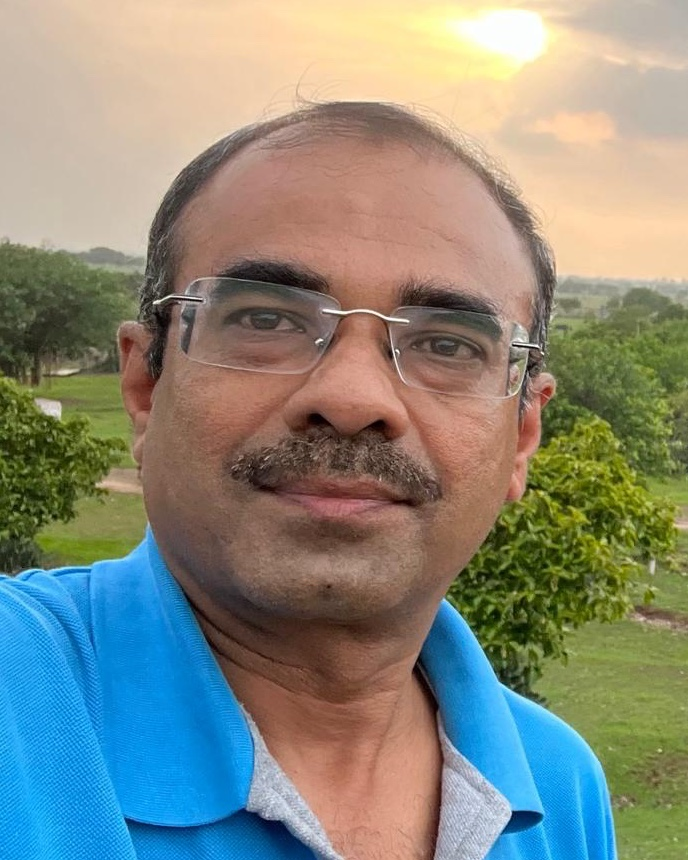
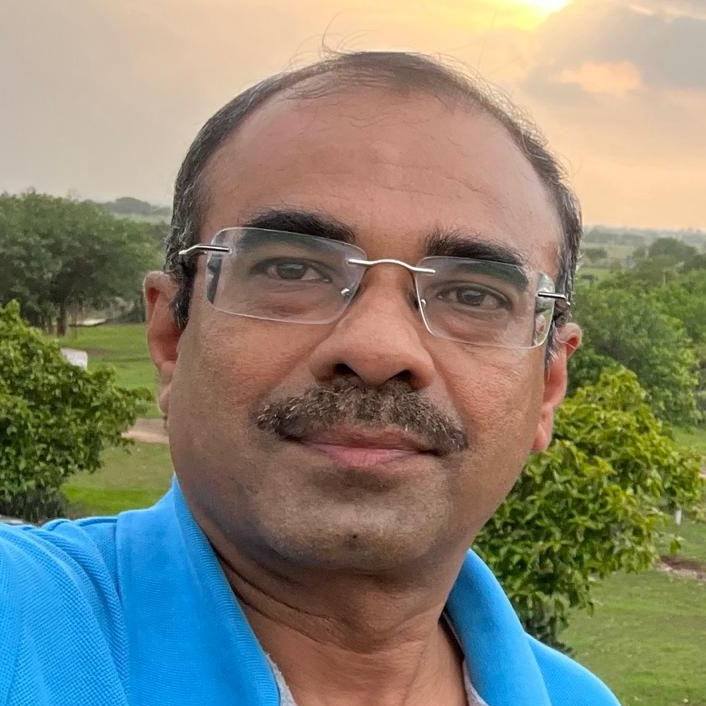
Design review round 1: smaller square portrait (beside the heading on his page, inside the card on home); his page without repeated sections (4 facts in a 2×2 block, operations covered by the treatment cards); gallery 2×2; tighter crops (OT without loose wires and lamp glare, building on the signboa

diff --git a/src/content/ui.ts b/src/content/ui.ts
@@ -40,14 +40,12 @@ export const UI = t(
     more: "વધુ વાંચો",
     galTitle: "ક્લિનિક",
     galSub: "કન્સલ્ટેશન, તપાસ અને ઓપરેશન — એક જ જગ્યાએ.",
-    phConsult: "કન્સલ્ટેશન રૂમ",
     phOT: "ઓપરેશન થિયેટર",
     phWait: "વેઇટિંગ એરિયા",
     phTests: "આંખની તપાસ: ઑટો‑રિફ્રેક્ટોમીટર અને સ્લિટ લેમ્પ",
     altTests: "સુભમ્ આઈ ક્લિનિકના કન્સલ્ટેશન રૂમમાં ઑટો‑રિફ્રેક્ટોમીટર અને સ્લિટ લેમ્પ",
     altBldg: "સુભમ્ આઈ ક્લિનિકનું મકાન, પ્રવેશદ્વાર અને બોર્ડ",
     phBldg: "ક્લિનિક, જય કેબલ સામે",
-    altConsult: "સુભમ્ આઈ ક્લિનિકનો કન્સલ્ટેશન રૂમ — સ્લિટ લેમ્પ અને તપાસની ખુરશી",
     altOT: "સુભમ્ આઈ ક્લિનિકના ઓપરેશન થિયેટરમાં ઓપરેટિંગ માઇક્રોસ્કોપ",
     phKerato: "કેરાટોમીટર: કૉન્ટેક્ટ લેન્સ માટે કોર્નિયાનો વળાંક માપે છે",
     altKerato: "સુભમ્ આઈ ક્લિનિકમાં કેરાટોમીટર",
@@ -104,17 +102,8 @@ export const UI = t(
     // Doctor page (/gu/dr-rajeev-shah/). Facts as on the home page; awaiting Dr. Shah's approval like all page text.
     docPageTitle: "ડૉ. રાજીવ શાહ, આંખના નિષ્ણાત અને સર્જન, જામનગર",
     docPageDesc: "ડૉ. રાજીવ શાહ, MBBS, DOMS: ૩૦ વર્ષથી વધુ સમયથી જામનગરમાં આંખના સર્જન. સુભમ્ આઈ ક્લિનિકમાં મોતિયો, ઝામર, ટેરીજીયમ અને આંખની ઇજાનાં ઓપરેશન. ફોન 0288 256 3274.",
-    langK: "ભાષા",
-    langV: "ગુજરાતી, હિન્દી, અંગ્રેજી",
-    expK: "અનુભવ",
     memK: "સભ્યપદ",
     memV: "APACRS (Asia‑Pacific Association of Cataract and Refractive Surgeons)",
-    expV: "૩૦ વર્ષથી વધુ; ૨૦૦૨થી સુભમ્ આઈ ક્લિનિકમાં",
-    opsTitle: "ક્લિનિકમાં થતાં ઓપરેશન",
-    ops1: "મોતિયાનું ફેકો ઓપરેશન, સામાન્ય રીતે ટાંકા વગર — મોનોફોકલ, ટોરિક કે મલ્ટિફોકલ/EDOF લેન્સ સાથે",
-    ops2: "ઝામર (ગ્લુકોમા)નું ઓપરેશન",
-    ops3: "ટેરીજીયમ અને પોપચાની ગાંઠ (કેલેઝિયન)નું ઓપરેશન",
-    ops4: "આંખની ઇજાની સારવાર, કોર્નિયાની ઇજાના રિપેર સહિત",
     opsNote: "બધાં ઓપરેશન ક્લિનિકના પોતાના ઓપરેશન થિયેટરમાં થાય છે.",
     docMore: "ડૉ. શાહ વિશે વધુ",
   },
@@ -153,14 +142,12 @@ export const UI = t(
     more: "Read more",
     galTitle: "The clinic",
     galSub: "Consultation, tests and surgery under one roof.",
-    phConsult: "Consultation room",
     phOT: "Operation theatre",
     phWait: "Waiting area",
     phTests: "Eye tests: auto‑refractometer and slit lamp",
     altTests: "Auto‑refractometer and slit lamp in the consultation room at Subham Eye Clinic",
     altBldg: "Subham Eye Clinic building, entrance gate and signboards",
     phBldg: "The clinic, opposite Jay Cable",
-    altConsult: "Consultation room at Subham Eye Clinic with the slit lamp and examination chair",
     altOT: "Operating microscope in the operation theatre at Subham Eye Clinic",
     phKerato: "Keratometer: measures the curve of the cornea for contact lenses",
     altKerato: "Keratometer at Subham Eye Clinic",
@@ -216,17 +203,8 @@ export const UI = t(
     tomorrow: "tomorrow",
     docPageTitle: "Dr. Rajeev Shah, Ophthalmologist and Eye Surgeon, Jamnagar",
     docPageDesc: "Dr. Rajeev Shah, MBBS, DOMS: eye surgeon in Jamnagar for over 30 years. Cataract, glaucoma, pterygium and eye-injury surgery at Subham Eye Clinic. Call 0288 256 3274.",
-    langK: "Languages",
-    langV: "Gujarati, Hindi, English",
-    expK: "Experience",
     memK: "Membership",
     memV: "APACRS (Asia‑Pacific Association of Cataract and Refractive Surgeons)",
-    expV: "Over 30 years; at Subham Eye Clinic since 2002",
-    opsTitle: "Operations at the clinic",
-    ops1: "Phaco cataract surgery, usually without stitches, with a monofocal, toric or multifocal/EDOF lens",
-    ops2: "Glaucoma surgery",
-    ops3: "Pterygium and chalazion operations",
-    ops4: "Treatment of eye injuries, including repair of corneal injuries",
     opsNote: "All operations are done in the clinic’s own operation theatre.",
     docMore: "More about Dr. Shah",
   },

diff --git a/src/styles/components.css b/src/styles/components.css
@@ -125,7 +125,7 @@ html[lang="en"] .lang a[lang="gu"]{font-family:"Anek Switch","Noto Sans Gujarati
 
 /* ---------- treatment cards ---------- */
 .tcard{display:grid;grid-template-columns:40px 1fr;gap:16px;align-items:start;align-content:start}
-.tcard h3::after,.others span::after{content:"\00a0→";display:inline-block;color:var(--green-2);transition:transform .2s}
+.tcard h3::after,.others span::after{content:"\00a0→";display:inline;color:var(--green-2);transition:transform .2s}
 .tcard p{font-size:16px;color:var(--mute);margin-top:4px}
 
 /* ---------- photos ---------- */
@@ -142,9 +142,12 @@ html[lang="en"] .lang a[lang="gu"]{font-family:"Anek Switch","Noto Sans Gujarati
 .facil span{display:block;font-size:16px;color:var(--mute);margin-top:2px}
 
 /* ---------- doctor ---------- */
-.portrait img{aspect-ratio:4/5}
-.doc{display:grid;gap:var(--gap)}
-.doc-card > p{font-size:20px;line-height:1.6;color:var(--ink);max-width:52em}
+/* his own outdoor photo: square, a little calmer in colour so the blue shirt doesn't shout against the cream */
+.portrait img{aspect-ratio:1;filter:saturate(.9)}
+.doc-card.has-photo{display:grid;gap:22px}
+.doc-card .portrait{width:160px}
+.doc-page .hero-t .portrait{width:160px;order:-1}
+.doc-body > p{font-size:20px;line-height:1.6;color:var(--ink);max-width:52em}
 .doc-more{margin-top:22px}
 .doc-more a{font-weight:600;color:var(--green);padding:10px 0}
 .doc-more a::after{content:"\00a0→";color:var(--green-2)}
@@ -152,7 +155,7 @@ html[lang="en"] .lang a[lang="gu"]{font-family:"Anek Switch","Noto Sans Gujarati
 .doc-facts{align-self:center}
 .doc-facts .facts{margin-top:0;border-top:0}
 .doc-facts .facts div:first-child{padding-top:0}
-html[data-lang="gu"] .doc-card > p{line-height:1.75}
+html[data-lang="gu"] .doc-body > p{line-height:1.75}
 .facts{display:grid;gap:0;margin-top:20px;border-top:1px solid var(--line)}
 .facts div{padding:14px 0;border-bottom:1px solid var(--line)}
 .facts div:last-child{border-bottom:0;padding-bottom:0}
@@ -269,7 +272,8 @@ html[data-lang="gu"] .faq summary{line-height:1.6}
   .acts{display:flex;flex-wrap:wrap;gap:12px}
   .g4{grid-template-columns:1fr 1fr}
   .txg{grid-template-columns:1fr 1fr}
-  .portrait{max-width:340px}
+  .doc-card.has-photo{grid-template-columns:200px 1fr;gap:28px;align-items:center}
+  .doc-card .portrait{width:auto}
   .g3{grid-template-columns:1fr 1fr}
   .glance{grid-template-columns:1fr 1fr}
   .glance div{padding:18px var(--pad);display:block}
@@ -288,6 +292,8 @@ html[data-lang="gu"] .faq summary{line-height:1.6}
 @media (min-width:768px) and (max-width:939px){
   .eye text{font-size:27px}
   .hero{grid-template-columns:1fr 1.1fr;gap:32px}
+  .doc-page .hero-t:has(.portrait){grid-template-columns:1fr 260px;align-items:center}
+  .doc-page .hero-t .portrait{width:auto;order:0}
 }
 @media (min-width:940px){
   footer .cols > :nth-child(2){grid-column:auto;grid-row:auto}
@@ -302,10 +308,12 @@ html[data-lang="gu"] .faq summary{line-height:1.6}
   .facil{display:grid;grid-template-columns:1fr 1fr}
   .facil > div:nth-child(2){border-top:0}
   .facil > div:nth-child(odd){border-right:1px solid var(--line)}
-  .doc.has-photo{grid-template-columns:300px 1fr}
-  .portrait{max-width:none}
-  .doc:not(.has-photo) .facts{grid-template-columns:1.25fr 1fr 1.25fr;gap:0 32px;margin-top:28px;padding-top:22px}
-  .doc:not(.has-photo) .facts div{border:0;padding:0}
+  .doc-card.has-photo{grid-template-columns:220px 1fr;gap:36px}
+  .doc-card:not(.has-photo) .facts{grid-template-columns:1.25fr 1fr 1.25fr;gap:0 32px;margin-top:28px;padding-top:22px}
+  .doc-card:not(.has-photo) .facts div{border:0;padding:0}
+  .doc-page .hero-t:has(.portrait){grid-template-columns:1fr 360px;align-items:center}
+  .doc-page .hero-t .portrait{width:auto;order:0}
+  #clinic .g4{grid-template-columns:1fr 1fr}
   .hero .fig{max-width:none}
   .txg{grid-template-columns:repeat(3,1fr)}
   .visit{align-items:stretch}
@@ -317,6 +325,11 @@ html[data-lang="gu"] .faq summary{line-height:1.6}
   .glance div:last-child:nth-child(odd){grid-column:auto}
   .glance div{border-top:0}
   .glance div+div{border-left:1px solid var(--line)}
+  /* his page: four facts read better as a 2×2 block than as four narrow columns */
+  .doc-page .glance{grid-auto-flow:row;grid-template-columns:1fr 1fr}
+  .doc-page .glance div+div{border-left:0}
+  .doc-page .glance div:nth-child(n+3){border-top:1px solid var(--line)}
+  .doc-page .glance div:nth-child(even){border-left:1px solid var(--line)}
   .rows{margin-top:36px}
   .row{grid-template-columns:1fr 2.1fr;gap:56px;padding:48px 0}
   .steps{grid-template-columns:repeat(3,1fr)}
@@ -350,7 +363,7 @@ html[data-lang="gu"] .faq summary{line-height:1.6}
 /* Printing (a patient may print a page or save it as PDF): text, hours and address only */
 @media print{
   .top{position:static;backdrop-filter:none}.nav,.lang,.menu,.dock,.mapcard,.fig,.others,.skip,.photo,.acts,.crumbs,.st{display:none!important}
-  .hero,.row,.g2,.doc{display:block!important}
+  .hero,.row,.g2,.doc-card{display:block!important}
   .t-page > section:last-child{display:none}
   body{background:#fff;font-size:12pt}.hero,.hero-t{padding-top:12px}.card{border-color:#bbb;break-inside:avoid}
   .row{padding:14px 0;break-inside:avoid}section{padding-top:24px}

diff --git a/src/content/treatments.ts b/src/content/treatments.ts
@@ -4,7 +4,7 @@
 import type { L } from "./site";
 
 export type Part = "lens" | "nerve" | "retina" | "cornea" | "surface";
-export type Section = { h: L; p?: L; list?: L<string[]>; note?: L; photo?: "ot" | "consult" | "tests" | "kerato"; lenses?: { name: L; d: L }[] };
+export type Section = { h: L; p?: L; list?: L<string[]>; note?: L; photo?: "ot" | "tests" | "kerato"; lenses?: { name: L; d: L }[] };
 export type Treatment = {
   slug: string;
   icon: string;
@@ -176,7 +176,7 @@ export const TREATMENTS: Treatment[] = [
       },
       {
         h: { gu: "સુભમ્ આઈ ક્લિનિકમાં સારવાર", en: "Care at Subham Eye Clinic" },
-        photo: "consult",
+        photo: "tests",
         p: {
           gu: "ડૉ. શાહ આંખનું દબાણ તપાસે છે અને ઑપ્ટિક નર્વની તપાસ કરે છે. સારવાર સામાન્ય રીતે ટીપાંથી શરૂ થાય છે; જરૂર પડે તો ક્લિનિકના પોતાના ઓપરેશન થિયેટરમાં ઝામરનું ઓપરેશન કરવામાં આવે છે.",
           en: "Dr. Shah checks the pressure in the eye and examines the optic nerve. Treatment usually starts with eye drops; when needed, glaucoma surgery is done in the clinic’s own operation theatre.",
@@ -219,7 +219,7 @@ export const TREATMENTS: Treatment[] = [
     sections: [
       {
         h: { gu: "ક્લિનિકમાં તપાસ", en: "The check-up at the clinic" },
-        photo: "consult",
+        photo: "tests",
         p: {
           gu: "ડૉ. શાહ રેટિનાની તપાસ કરે છે અને જરૂર પડે તો ફંડસ કેમેરાથી પડદાના ફોટા તથા OCT સ્કેન કરે છે, જેમાં રેટિનાનાં પડ વિગતે દેખાય છે.",
           en: "Dr. Shah examines the retina and, where needed, takes retina photographs with the fundus camera and an OCT scan, which shows the layers of the retina in detail.",

diff --git a/src/pages/Doctor.tsx b/src/pages/Doctor.tsx
@@ -11,10 +11,10 @@ import { Visit } from "./Home";
 
 export function Doctor({ lang }: { lang: Lang }) {
   const L = UI[lang], portrait = SITE.photos.portrait;
-  const facts = [[L.qualsK, L.qualsV], [L.regK, L.regV], [L.langK, L.langV], [L.expK, L.expV], [L.memK, L.memV]];
-  const ops = [L.ops1, L.ops2, L.ops3, L.ops4];
+  // Languages and experience are in the intro paragraph; the operations are the treatment cards below.
+  const facts = [[L.qualsK, L.qualsV], [L.regK, L.regV], [L.memK, L.memV], [L.campsK, L.campsV]];
   return (
-    <div className="t-page">
+    <div className="t-page doc-page">
       <nav className="crumbs" aria-label={lang === "gu" ? "તમે અહીં છો" : "Breadcrumb"}>
         <ol>
           <li><a href={href(homePath(lang))}>{L.home}</a></li>
@@ -35,21 +35,13 @@ export function Doctor({ lang }: { lang: Lang }) {
           </OpenStatus>
         </div>
         {portrait
-          ? <Photo file="portrait" alt={L.doctor} w={800} h={1000} className="portrait" />
+          ? <Photo file="portrait" alt={L.doctor} w={706} h={706} className="portrait" />
           : <div className="card doc-facts"><dl className="facts">{facts.map(([k, v]) => <div key={k}><dt className="label">{k}</dt><dd>{v}</dd></div>)}</dl></div>}
       </div>
 
       {portrait && <dl className="card glance">{facts.map(([k, v]) => <div key={k}><dt className="label">{k}</dt><dd>{v}</dd></div>)}</dl>}
 
-      <div className="rows">
-        <section className="row"><h2>{L.opsTitle}</h2><div className="row-b">
-          <ul className="signs">{ops.map((x) => <li key={x}>{x}</li>)}</ul>
-          <p className="note">{L.opsNote}</p>
-        </div></section>
-        <section className="row"><h2>{L.campsK}</h2><div className="row-b"><p>{L.campsV}</p></div></section>
-      </div>
-
-      <Section id="tx" title={L.txTitle} sub={L.txSub}>
+      <Section id="tx" title={L.txTitle} sub={L.opsNote}>
         <div className="g3 txg">
           {TREATMENTS.map((t) => (
             <a key={t.slug} className="card tcard" href={href(treatmentPath(lang, t))}>

diff --git a/src/pages/Home.tsx b/src/pages/Home.tsx
@@ -9,7 +9,7 @@ import { EyeDiagram } from "../components/EyeDiagram";
 export function Home({ lang }: { lang: Lang }) {
   const L = UI[lang], on = SITE.photos;
   const photos = [
-    ...(on.tests ? [{ file: "tests", alt: L.altTests, caption: L.phTests }] : [{ file: "consult", alt: L.altConsult, caption: L.phConsult }]),
+    ...(on.tests ? [{ file: "tests", alt: L.altTests, caption: L.phTests }] : []),
     ...(on.ot ? [{ file: "ot", alt: L.altOT, caption: L.phOT }] : []),
     ...(on.waiting ? [{ file: "waiting", alt: L.altWait, caption: L.phWait }] : []),
     ...(on.building ? [{ file: "building", alt: L.altBldg, caption: L.phBldg }] : []),
@@ -43,14 +43,13 @@ export function Home({ lang }: { lang: Lang }) {
       </Section>
 
       <Section id="doc" title={L.doctor} sub={L.docRole}>
-        <div className={"doc" + (SITE.photos.portrait ? " has-photo" : "")}>
-          {SITE.photos.portrait && <Photo file="portrait" alt={L.doctor} w={800} h={1000} className="portrait" />}
-          <div className="card doc-card">
+        <div className={"card doc-card" + (SITE.photos.portrait ? " has-photo" : "")}>
+          {SITE.photos.portrait && <Photo file="portrait" alt={L.doctor} w={706} h={706} className="portrait" />}
+          <div className="doc-body">
             <p>{L.docBody}</p>
             <dl className="facts">
               <div><dt className="label">{L.qualsK}</dt><dd>{L.qualsV}</dd></div>
               <div><dt className="label">{L.regK}</dt><dd>{L.regV}</dd></div>
-              <div><dt className="label">{L.campsK}</dt><dd>{L.campsV}</dd></div>
             </dl>
             <p className="doc-more"><a href={href(doctorPath(lang))}>{L.docMore}</a></p>
           </div>

diff --git a/src/content/site.ts b/src/content/site.ts
@@ -29,8 +29,8 @@ export const SITE = {
   },
   // Photos shot at the clinic. Set to true after adding public/photos/portrait.jpg (4:5) or building.jpg (4:3);
   // until then the page simply has no empty slot for them.
-  // building.jpg and tests.jpg (3:2, 1200×800) are from 28 Nov 2026; the old consult.jpg stays on the treatment pages only.
-  // portrait.jpg: Dr. Shah's own photo sent 28 Nov 2026 (4:5 crop, 688×860); a white-coat photo can replace it later.
+  // building.jpg and tests.jpg are 3:2 crops of 28 Nov 2026 photos; the 2020 consult.jpg (covered machines) was dropped.
+  // portrait.jpg: Dr. Shah's own photo sent 28 Nov 2026 (square crop, 706×706); a white-coat photo can replace it later.
   // waiting.jpg: the owner's Dec 2020 Google listing photo, 3:2 crop of the 1152×544 original (user's choice, 28 Nov 2026).
   // ot.jpg (operating microscope, 3:2) and kerato.jpg (keratometer, eye-tests page) are from 28 Nov 2026; the phaco machine is left out (worn cover).
   photos: { portrait: true as boolean, building: true as boolean, tests: true as boolean, ot: true as boolean, waiting: true as boolean },

diff --git a/src/pages/Treatment.tsx b/src/pages/Treatment.tsx
@@ -18,7 +18,6 @@ export function Treatment({ lang, t }: { lang: Lang; t: T }) {
   const L = UI[lang];
   const photos = {
     ot: { file: "ot", alt: L.altOT, caption: L.phOT, className: "tall" },
-    consult: { file: "consult", alt: L.altConsult, caption: L.phConsult },
     tests: { file: "tests", alt: L.altTests, caption: L.phTests, className: "tall" },
     kerato: { file: "kerato", alt: L.altKerato, caption: L.phKerato, className: "tall" },
   };
